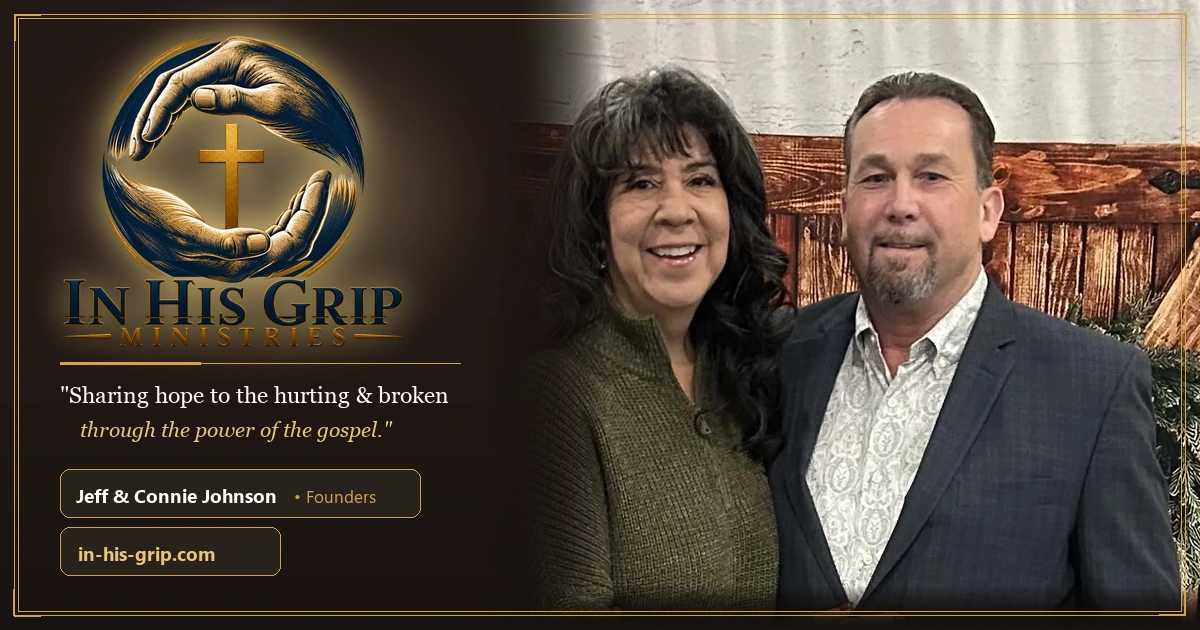
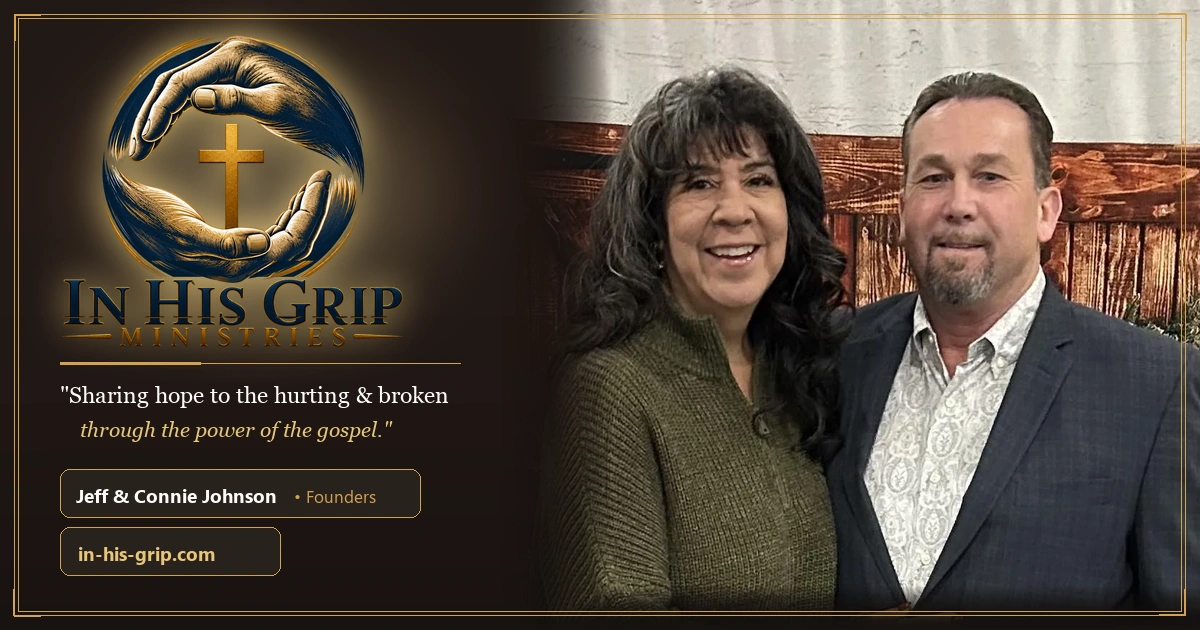
fix(og-image): shift photo to right and center Jeff and Connie between gradient and right border

Changed region(s): [[0.4625, 0.0, 1.0, 0.9952], [0.9867, 0.0905, 1.0, 0.1206], [0.925, 0.0, 0.9558, 0.0302]]

diff --git a/create_og_images.py b/create_og_images.py
@@ -61,8 +61,9 @@ def create_variant_1():
     aura = aura.filter(ImageFilter.GaussianBlur(55))
     card = Image.alpha_composite(card, aura)
 
-    # Photo Crop: Full headroom at top (y=0 to y=875), crop excess background on left
-    crop_box = (150, 0, 1169, 875)
+    # Photo Crop: Full headroom at top (y=0 to y=875)
+    # Centered between right border and left gradient
+    crop_box = (90, 0, 1169, 875)
     p_cropped = photo.crop(crop_box)
 
     # Scale to canvas height 630
@@ -70,14 +71,14 @@ def create_variant_1():
     target_w = int(p_cropped.width * (target_h / p_cropped.height))
     p_scaled = p_cropped.resize((target_w, target_h), Image.Resampling.LANCZOS)
 
-    # Shift photo right so Connie is well outside the gradient
+    # Shift photo right so Connie and Jeff are centered between the right border and the gradient
     photo_layer = Image.new('RGBA', (W, H), (0, 0, 0, 0))
-    photo_x = W - target_w + 10
+    photo_x = W - target_w + 68
 
-    # Narrow alpha mask for feathering only the leftmost edge (before Connie's hair)
+    # Smooth alpha mask for feathering the leftmost edge
     mask = Image.new('L', (target_w, target_h), 255)
     mask_draw = ImageDraw.Draw(mask)
-    fade_w = 130
+    fade_w = 120
     for x in range(fade_w):
         alpha = int(255 * (x / fade_w)**1.5)
         mask_draw.line([(x, 0), (x, target_h)], fill=alpha)
